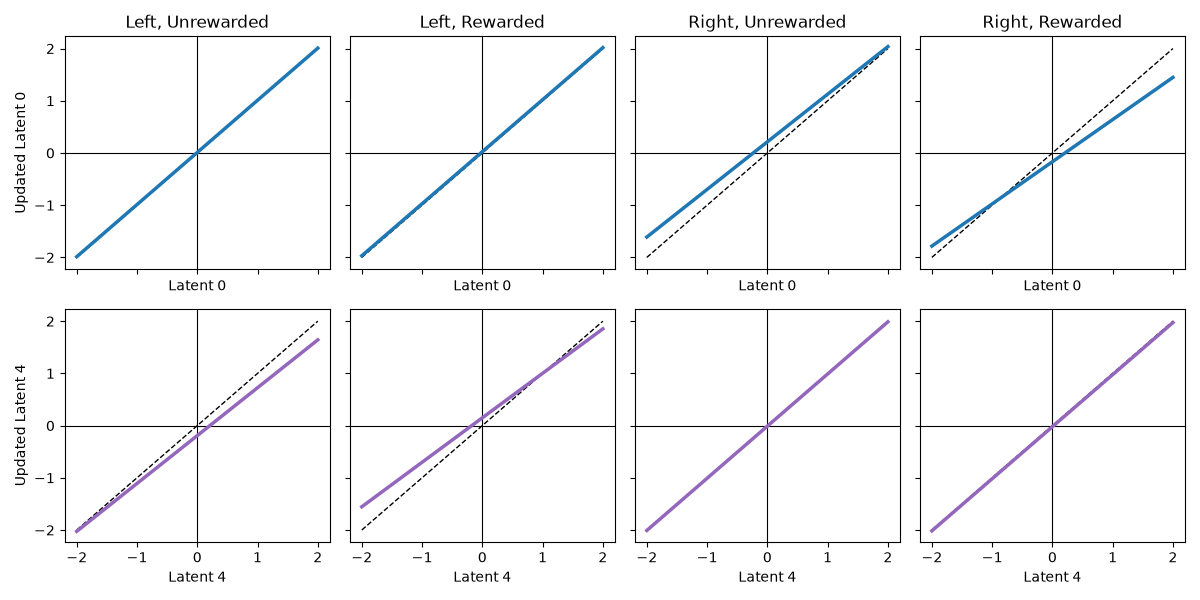
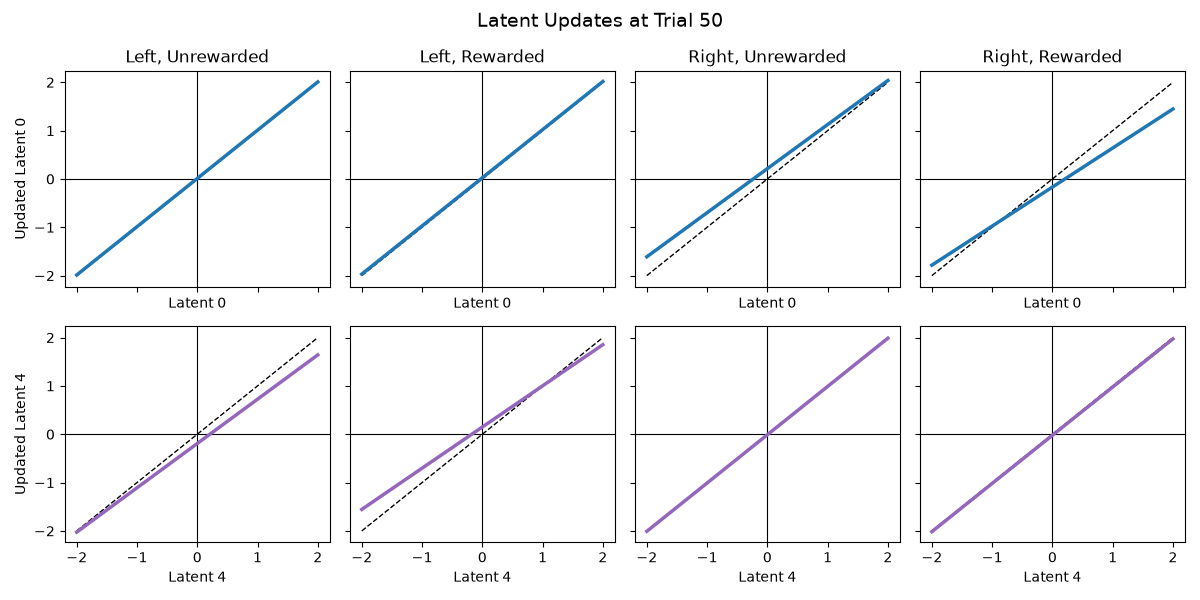
latent analysis plots

diff --git a/config.py b/config.py
@@ -6,7 +6,7 @@ import matplotlib.pyplot as plt
 from agents.DisRNN import MyDisRNN
 
 
-seed = 36
+seed = 40
 random.seed(seed)
 np.random.seed(seed)
 torch.manual_seed(seed)
